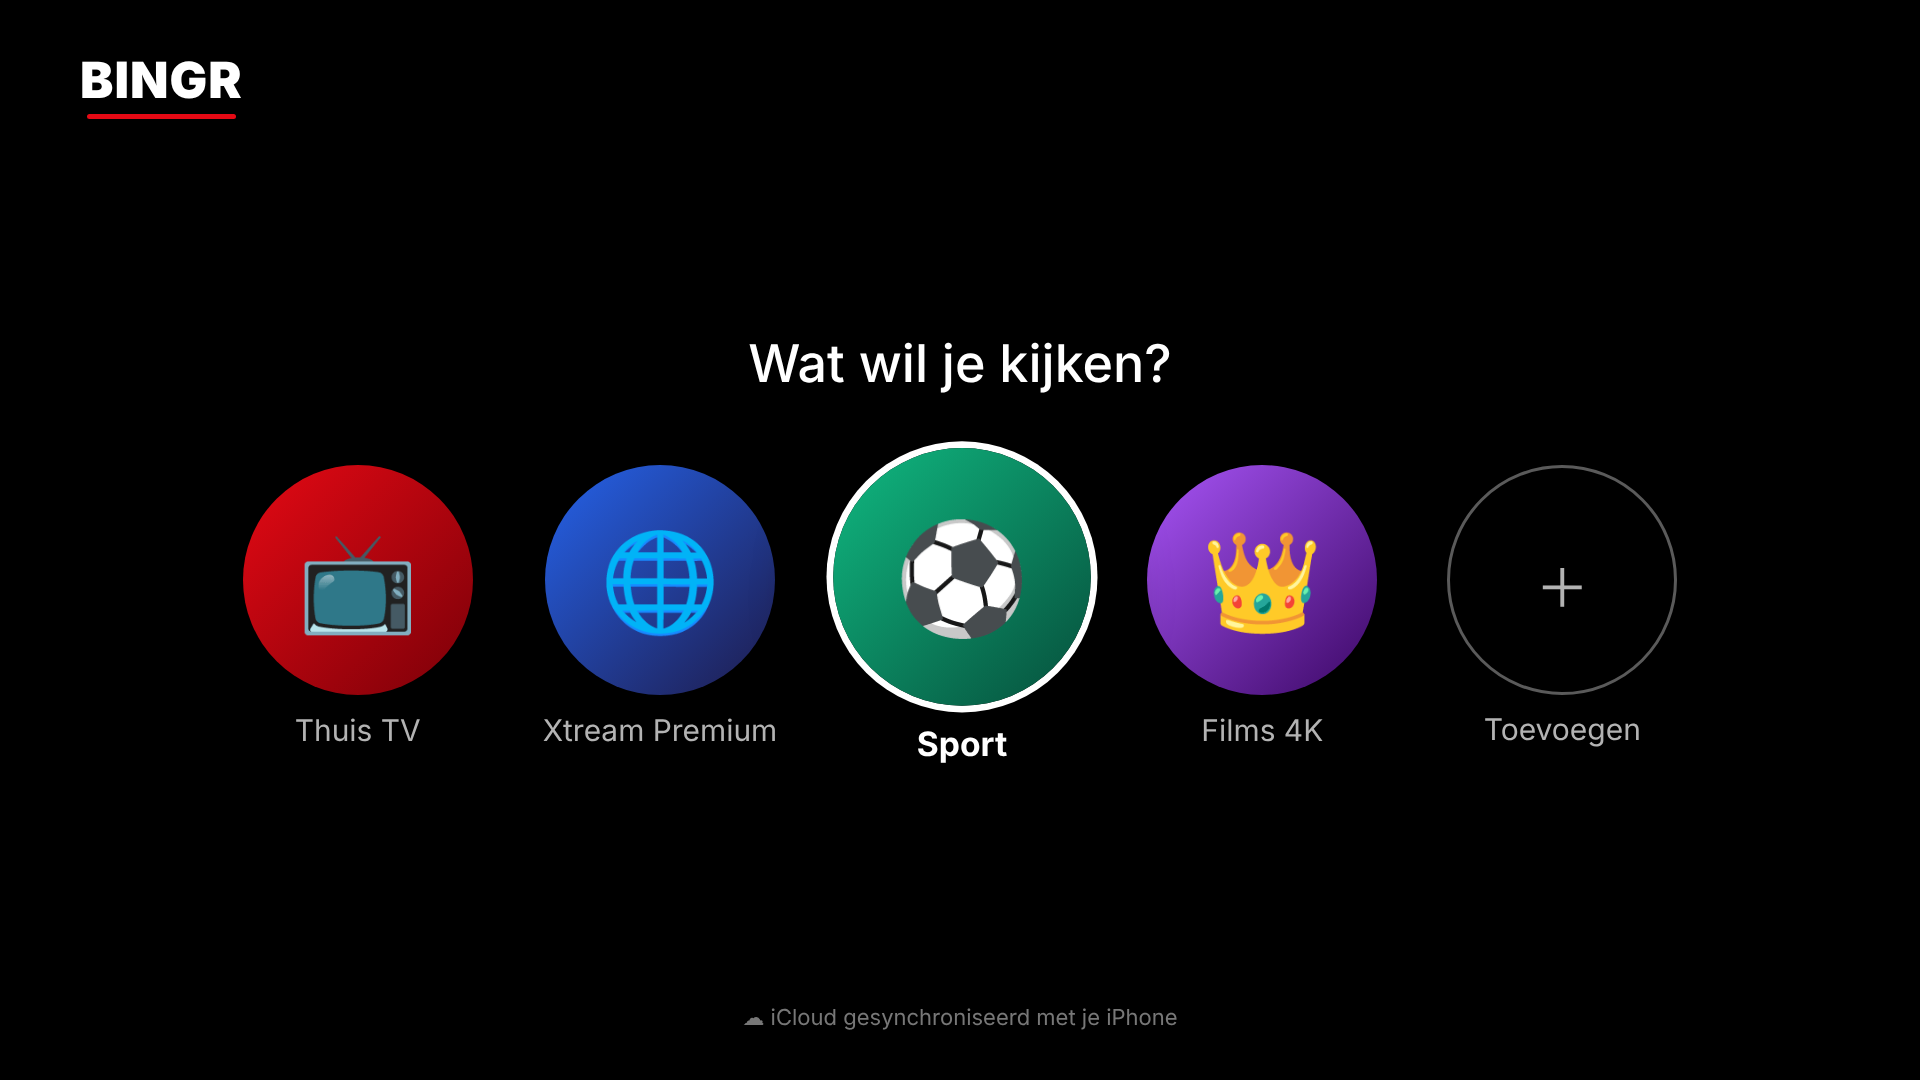
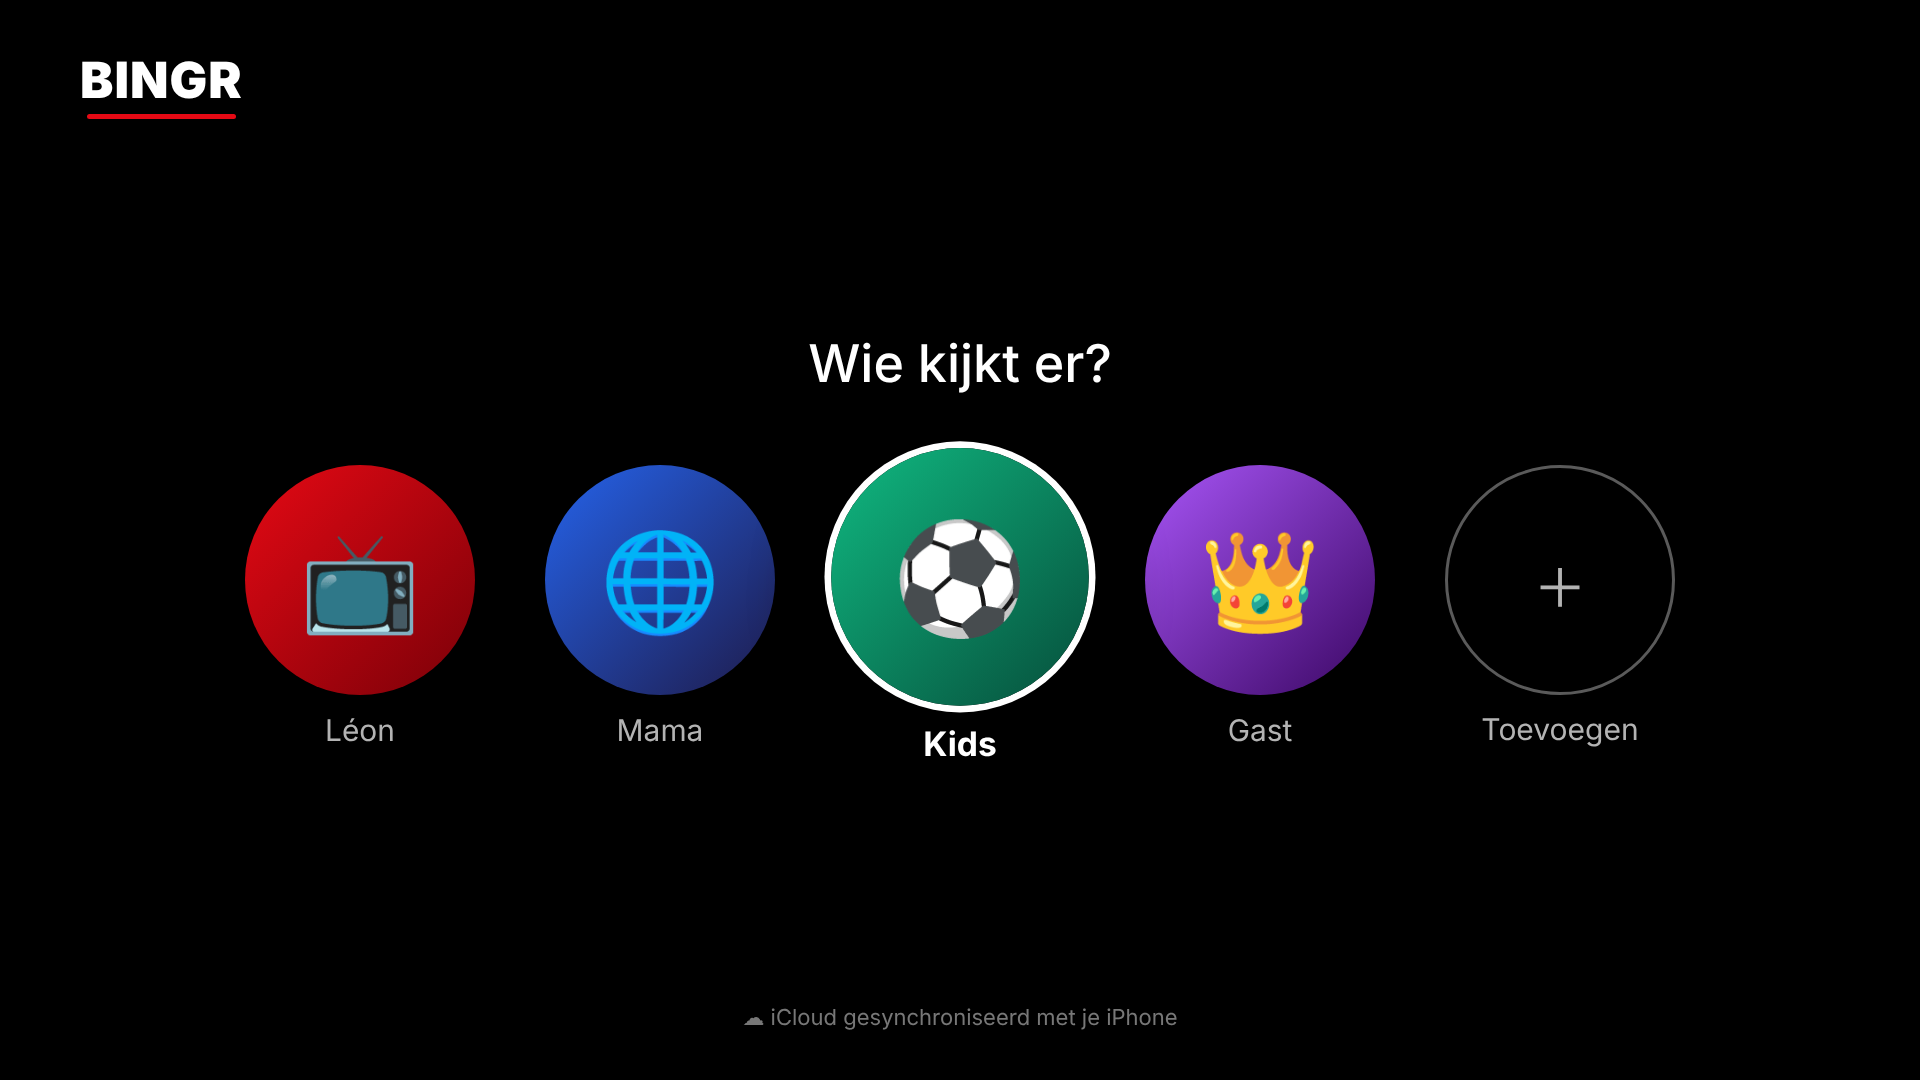
Screenshots: Wie kijkt er? met profielen
Claude-Session: https://claude.ai/code/session_01QoqqLVTvT2ekCDQmWshsy8

diff --git a/docs/mockups/mockups.html b/docs/mockups/mockups.html
@@ -63,9 +63,9 @@ const screens = {
    </div></div>`,
  ios_picker:()=>`<div class="screen"><div class="status"><span>20:41</span><span>●●● 5G ▮</span></div>
    <div style="display:flex;justify-content:space-between;align-items:center;padding:10px 16px"><div class="logo" style="font-size:26px">BINGR</div><span style="font-weight:600">Beheren</span></div>
-   <div style="text-align:center;margin-top:120px;font-size:26px;font-weight:500">Wat wil je kijken?</div>
+   <div style="text-align:center;margin-top:120px;font-size:26px;font-weight:500">Wie kijkt er?</div>
    <div style="display:grid;grid-template-columns:repeat(2,130px);gap:28px 28px;justify-content:center;margin-top:36px">
-   ${av(0,130,"Thuis TV")}${av(1,130,"Xtream Premium")}${av(2,130,"Sport")}${av(3,130,"Films 4K")}
+   ${av(0,130,"Léon")}${av(1,130,"Mama")}${av(2,130,"Kids")}${av(3,130,"Gast")}
    <div style="display:flex;flex-direction:column;align-items:center;gap:9px"><div style="width:130px;height:130px;border:2px solid #b3b3b380;border-radius:50%;display:grid;place-items:center;font-size:48px;color:#b3b3b3;font-weight:200">+</div><div style="color:#b3b3b3;font-size:17px">Toevoegen</div></div></div>
    <div style="position:absolute;bottom:40px;width:100%;text-align:center;color:#b3b3b3aa;font-size:12px">☁ iCloud gesynchroniseerd · 20:41</div></div>`,
  ios_home:()=>`<div class="screen"><div style="position:absolute;inset:0 0 auto 0;height:640px;background:radial-gradient(circle at 50% 40%,#c0392b88,#000 75%)"></div>
@@ -125,11 +125,11 @@ const screens = {
    <div class="tabbar">${["Home","Live TV","Films","Series","Zoeken","Mijn Bingr"].map((t,i)=>`<div class="${i==1?'on':''}"><span style="font-size:22px">${["⌂","◉","▤","▦","⌕","◯"][i]}</span>${t}</div>`).join('')}</div></div>`,
  ios_add:()=>`<div class="screen" style="background:#000"><div style="position:absolute;inset:60px 0 0 0;background:#141414;border-radius:14px 14px 0 0">
    <div style="display:flex;justify-content:space-between;padding:16px;font-size:17px"><span style="color:var(--red)">Annuleer</span><b>Afspeellijst toevoegen</b><span style="width:60px"></span></div>
-   <div style="display:flex;justify-content:center;margin:6px 0 14px">${av(3,96,"Films 4K","#B3B3B3")}</div>
+   <div style="display:flex;justify-content:center;margin:6px 0 14px">${av(3,96,"Gast","#B3B3B3")}</div>
    <div style="padding:0 16px">
    <div style="color:#b3b3b3;font-weight:600;font-size:14px;margin:0 0 8px 14px">Kies het type afspeellijst</div>
    <div style="display:grid;grid-template-columns:repeat(4,1fr);gap:8px">${[["☰","M3U"],["▤","Xtream"],["▭","MAC portal"],["▶","Plex"],["◈","Jellyfin"],["Ⓔ","Emby"],["✦","Stremio"]].map((k,i)=>`<div style="background:${i==1?'var(--red)':'#232323'};border-radius:12px;padding:10px 4px;text-align:center;font-size:11px;font-weight:600"><div style="font-size:18px">${k[0]}</div>${k[1]}</div>`).join('')}</div>
-   ${[["Noem deze afspeellijst","Films 4K",1]].map(f=>`<div style="color:#b3b3b3;font-weight:600;font-size:14px;margin:16px 0 8px 14px">${f[0]}</div><div style="background:#232323;border-radius:999px;padding:14px 18px;font-size:16px">${f[1]}</div>`).join('')}
+   ${[["Noem deze afspeellijst","Gast",1]].map(f=>`<div style="color:#b3b3b3;font-weight:600;font-size:14px;margin:16px 0 8px 14px">${f[0]}</div><div style="background:#232323;border-radius:999px;padding:14px 18px;font-size:16px">${f[1]}</div>`).join('')}
    <div style="color:#b3b3b3;font-weight:600;font-size:14px;margin:16px 0 8px 14px">Identificeer met een icoon</div>
    <div style="display:flex;gap:10px;overflow:hidden">${["🔗","💬","🌐","🐇","📈","⚽","📶","👑","🔥"].map((s,i)=>`<div style="width:44px;height:44px;flex:none;border-radius:12px;display:grid;place-items:center;font-size:20px;background:${i==7?'linear-gradient(135deg,#A855F7,#3B0764)':'#232323'}">${s}</div>`).join('')}</div>
    <div style="display:flex;gap:12px;margin-top:12px">${["#E50914","#2563EB","#10B981","#F59E0B","#A855F7","#EC4899","#14B8A6","#64748B"].map((c,i)=>`<div style="width:28px;height:28px;border-radius:50%;background:${c};${i==4?'outline:3px solid #fff;outline-offset:-3px':''}"></div>`).join('')}</div>
@@ -209,8 +209,8 @@ const screens = {
      <div style="display:flex;gap:40px;padding:24px 80px">${[4,8,2,11,6,13].map((i,k)=>poster(i,230,{prog:[62,25,80,40,10,55][k]})).join('')}</div></div></div>`,
  tv_picker:()=>`<div class="screen" style="display:flex;flex-direction:column;align-items:center;justify-content:center">
    <div class="logo" style="position:absolute;top:50px;left:80px;font-size:50px">BINGR</div>
-   <div style="font-size:52px;font-weight:500;margin-bottom:70px">Wat wil je kijken?</div>
-   <div style="display:flex;gap:70px;align-items:flex-start">${av(0,230,"Thuis TV")}${av(1,230,"Xtream Premium")}<div style="transform:scale(1.12);filter:drop-shadow(0 20px 30px #000)"><div style="display:flex;flex-direction:column;align-items:center;gap:16px"><div class="avatar" style="border-radius:50%;width:230px;height:230px;background:linear-gradient(135deg,${AV[2][0]},${AV[2][1]});font-size:97px;box-shadow:0 0 0 6px #fff">${AV[2][2]}</div><div style="color:#fff;font-weight:700;font-size:30px">Sport</div></div></div>${av(3,230,"Films 4K")}
+   <div style="font-size:52px;font-weight:500;margin-bottom:70px">Wie kijkt er?</div>
+   <div style="display:flex;gap:70px;align-items:flex-start">${av(0,230,"Léon")}${av(1,230,"Mama")}<div style="transform:scale(1.12);filter:drop-shadow(0 20px 30px #000)"><div style="display:flex;flex-direction:column;align-items:center;gap:16px"><div class="avatar" style="border-radius:50%;width:230px;height:230px;background:linear-gradient(135deg,${AV[2][0]},${AV[2][1]});font-size:97px;box-shadow:0 0 0 6px #fff">${AV[2][2]}</div><div style="color:#fff;font-weight:700;font-size:30px">Kids</div></div></div>${av(3,230,"Gast")}
    <div style="display:flex;flex-direction:column;align-items:center;gap:16px"><div style="width:230px;height:230px;border:3px solid #b3b3b380;border-radius:50%;display:grid;place-items:center;font-size:90px;color:#b3b3b3;font-weight:200">+</div><div style="color:#b3b3b3;font-size:30px">Toevoegen</div></div></div>
    <div style="position:absolute;bottom:50px;color:#b3b3b3aa;font-size:22px">☁ iCloud gesynchroniseerd met je iPhone</div></div>`,
  tv_detail:()=>`<div class="screen" style="background:#141414">
